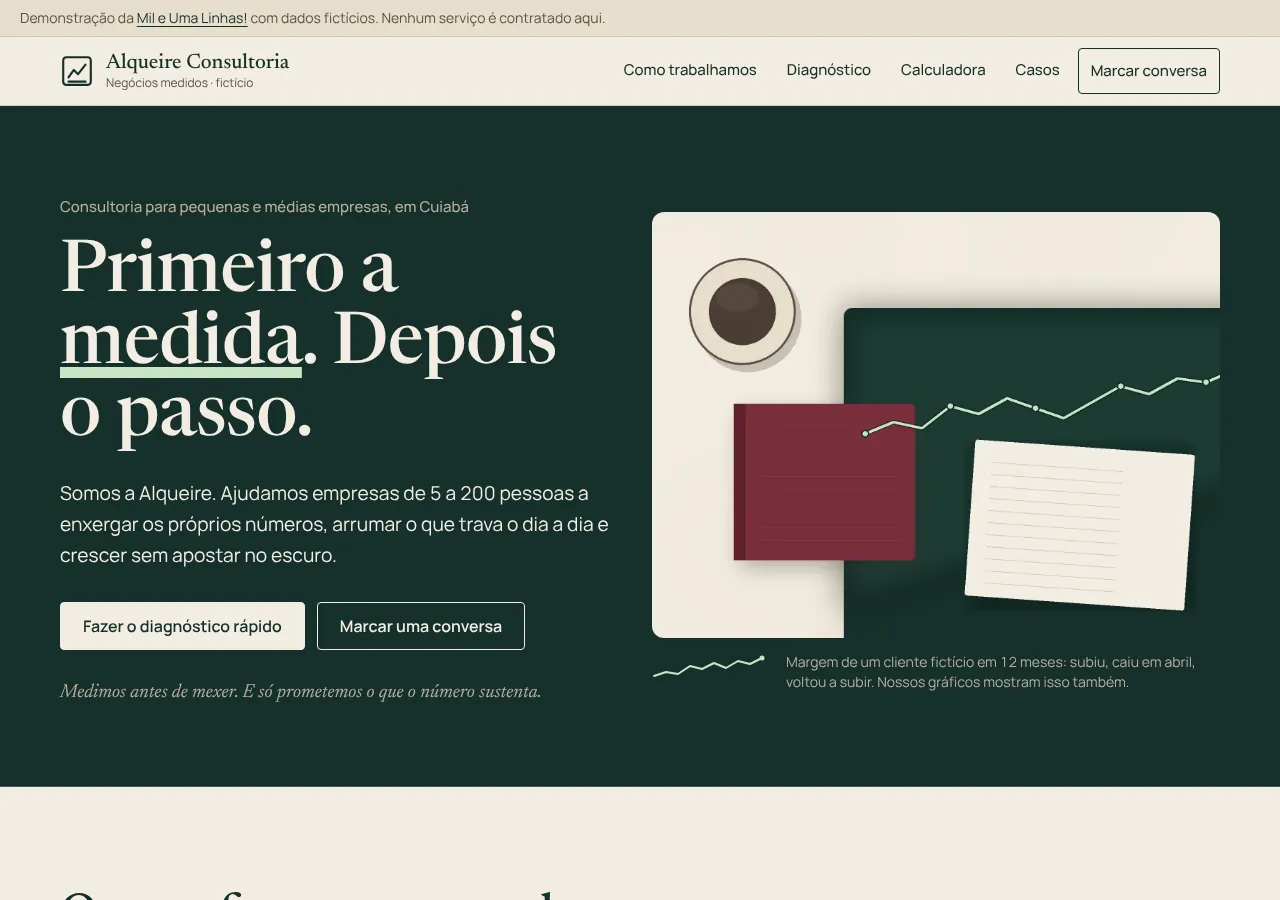
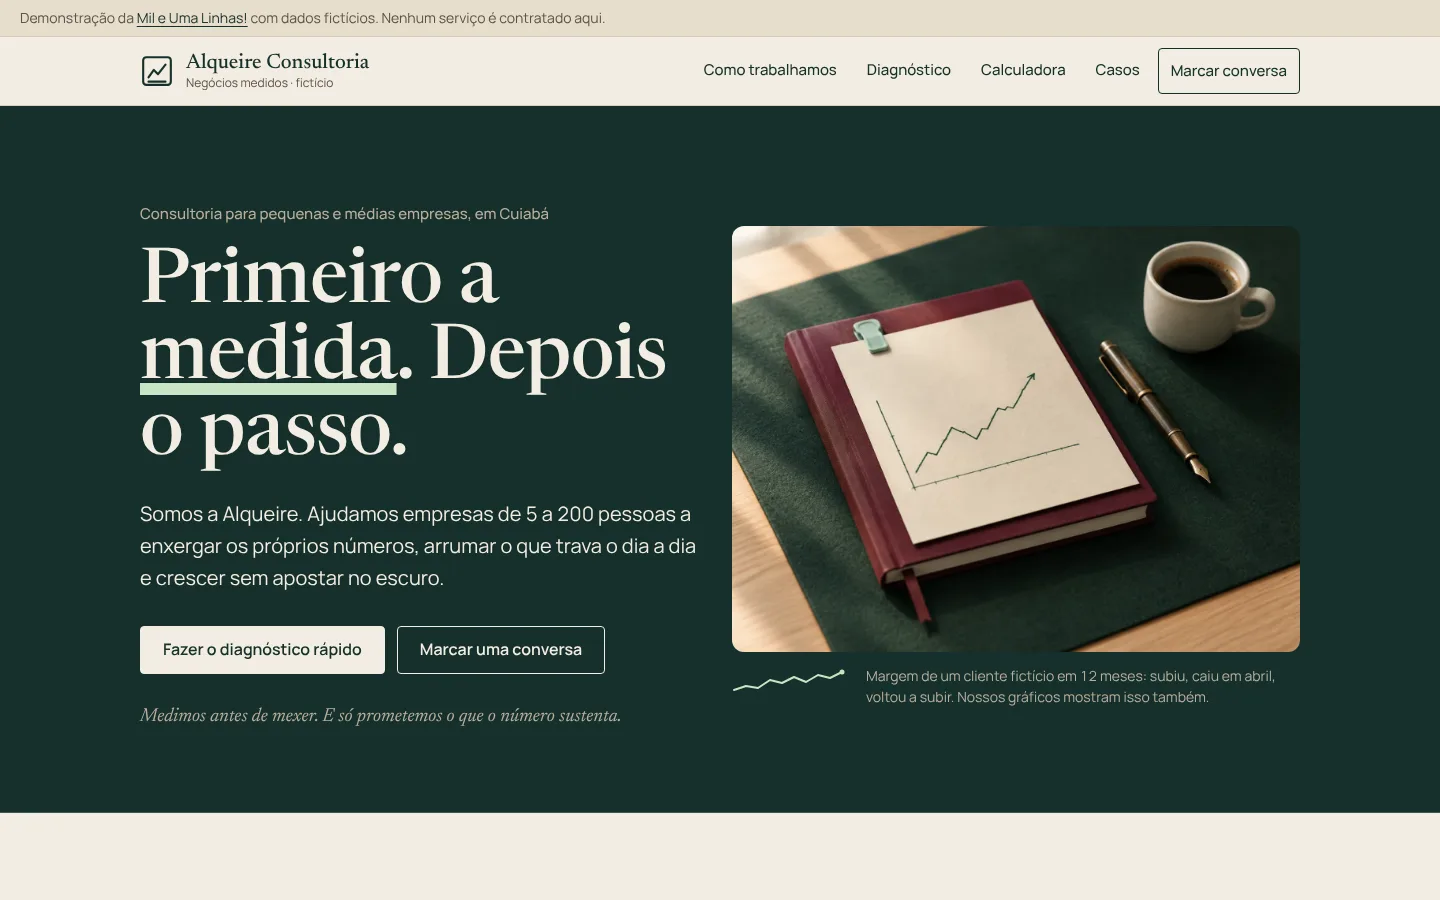
Troca o hero por foto gerada no Canva
Substitui img/hero.webp, antes uma composicao provisoria feita com
Pillow, por uma foto gerada por IA no Canva a partir do prompt da secao
"Foto do hero" de docs/identidade.md. Ajusta largura, altura e texto
alternativo da imagem no index.html, o teste de largura em
tests/site.cjs, o README e a documentacao, e refaz as capturas
docs/capa-desktop.webp e docs/capa-celular.webp. Testes em 1280x900,
iPhone 13 e 320px passando.

Claude-Session: https://claude.ai/code/session_015DVsuVad392kn1wvAjF541

diff --git a/index.html b/index.html
@@ -53,7 +53,7 @@
         </div>
         <figure class="hero-figura">
           <div class="hero-moldura">
-            <img class="hero-foto" src="img/hero.webp" width="1600" height="1200" alt="Mesa de trabalho vista de cima: feltro verde-escuro, caderno vinho, uma folha de relatório e uma linha de resultado em verde-menta que sobe, cai e volta a subir." fetchpriority="high">
+            <img class="hero-foto" src="img/hero.webp" width="1440" height="1080" alt="Mesa de trabalho vista de cima: feltro verde-escuro, caderno vinho com uma folha de gráfico em alta, caneta-tinteiro e uma xícara de café." fetchpriority="high">
           </div>
           <figcaption class="hero-legenda">
             <svg class="faisca" viewBox="0 0 120 32" aria-hidden="true" focusable="false"><polyline points="2,22 14,18 26,20 38,12 50,15 62,9 74,14 86,7 98,10 110,4" /><circle cx="110" cy="4" r="2.5" /></svg>

diff --git a/README.md b/README.md
@@ -48,7 +48,7 @@ O estudo completo está em [`docs/identidade.md`](docs/identidade.md).
 - **Paleta:** papel quente `#F3EDE2` e papel escuro `#E6DDCC` de fundo; verde-mata `#16302B` no texto, no cabeçalho e nas seções escuras; terra `#5C5247` nos textos de apoio; menta `#C9E4C5` como único destaque claro, uma vez por tela; vinho `#7A2E3B` como contraponto honesto (o "antes", a área fraca, o prejuízo, os erros). Sem azul-corporativo, sem gradiente, sem sombra em cartão.
 - **Fontes:** Newsreader (serifada de jornal, variável, contraste alto nos títulos) e Manrope (sans geométrica com algarismos tabulares para todos os números). As duas são locais, em `fonts/`, com licença SIL OFL ao lado.
 - **Por quê:** a mesa de quem fecha o mês: papel, a capa verde do livro-caixa, a lombada vinho do caderno e um traço de marca-texto. Os gráficos são o elemento gráfico da marca e são honestos: a linha do hero sobe, cai e volta a subir; o radar mostra o fraco junto do forte; a calculadora mostra a faixa de prejuízo.
-- **Foto do hero:** provisória, gerada com Pillow nas cores da identidade. O prompt para a foto definitiva, 4:3 e 1600px de largura, está no estudo de identidade.
+- **Foto do hero:** foto gerada por IA no Canva (4:3, 1440x1080), feita a partir do prompt do estudo de identidade.
 
 ## Como funciona por dentro
 
@@ -97,7 +97,7 @@ index.html            página única, com âncoras
 css/estilo.css        estilo
 js/app.js             comportamento (menu, diagnóstico, calculadora, casos, conversa)
 fonts/                Newsreader e Manrope (woff2) e licenças
-img/hero.webp         foto provisória do hero (4:3, 1600px)
+img/hero.webp         foto do hero gerada por IA no Canva (4:3, 1440x1080)
 docs/identidade.md    estudo de identidade visual e prompt da foto do hero
 docs/vistoria.md      vistoria de segurança
 docs/*.webp           capturas

diff --git a/CLAUDE.md b/CLAUDE.md
@@ -11,4 +11,4 @@ Site de demonstração de uma consultoria fictícia de negócios para pequenas e
 - Ao terminar uma alteração, entregue a mensagem de commit em dois blocos rotulados: "Título" (até 50 caracteres) e "Descrição" (estendida, com exatamente o que foi feito).
 - Entregue arquivos soltos, nunca em `.zip`.
 - O repositório é público: não coloque senhas, chaves secretas nem dados pessoais em arquivos versionados.
-- A foto do hero (`img/hero.webp`) é provisória, gerada com Pillow; o prompt para a foto definitiva está em `docs/identidade.md`, seção "Foto do hero". Ao trocar, mantenha 4:3 e 1600px de largura.
+- A foto do hero (`img/hero.webp`) é uma foto gerada por IA no Canva, a partir do prompt de `docs/identidade.md`, seção "Foto do hero". Ao trocar, mantenha 4:3 e 1440x1080.
